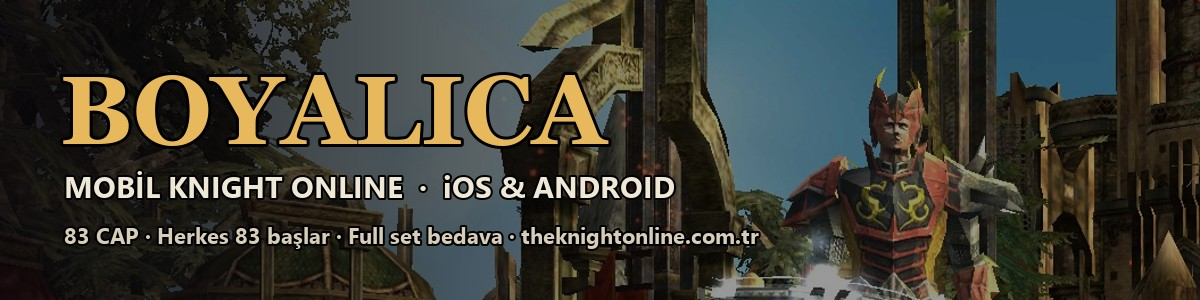
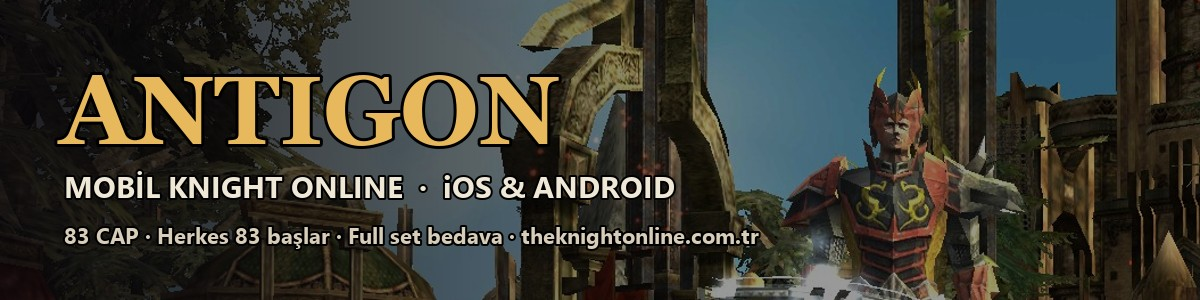
Sunucu adı BOYALICA -> ANTIGON (site, haber, tanıtım görselleri)

Changed region(s): [[0.0308, 0.24, 0.5242, 0.51]]

diff --git a/index.html b/index.html
@@ -3,8 +3,8 @@
 <head>
 <meta charset="utf-8">
 <meta name="viewport" content="width=device-width, initial-scale=1">
-<title>BOYALICA — Knight Online Mobile</title>
-<meta name="description" content="BOYALICA: Knight Online deneyimi mobilde. Karus ve El Morad savaşı, Forgotten Temple, Juraid Mountain ve daha fazlası.">
+<title>ANTIGON — Knight Online Mobile</title>
+<meta name="description" content="ANTIGON: Knight Online deneyimi mobilde. Karus ve El Morad savaşı, Forgotten Temple, Juraid Mountain ve daha fazlası.">
 <link rel="preconnect" href="https://fonts.googleapis.com">
 <link rel="preconnect" href="https://fonts.gstatic.com" crossorigin>
 <link href="https://fonts.googleapis.com/css2?family=Cinzel:wght@600;800&family=Poppins:wght@400;500;600;700&display=swap" rel="stylesheet">
@@ -14,7 +14,7 @@
 
 <header class="nav" id="nav">
   <div class="nav-in">
-    <a class="logo" href="#top"><span class="logo-main">BOYALICA</span><span class="logo-sub">KNIGHT ONLINE MOBILE</span></a>
+    <a class="logo" href="#top"><span class="logo-main">ANTIGON</span><span class="logo-sub">KNIGHT ONLINE MOBILE</span></a>
     <nav class="menu" id="menu">
       <a href="#haberler">Haberler</a>
       <a href="#siralama">Sıralama</a>
@@ -33,7 +33,7 @@
   <div class="hero-in">
     <p class="kicker">KARUS · EL MORAD</p>
     <h1>Savaş artık<br><span class="gold">cebinde.</span></h1>
-    <p class="lead">BOYALICA'da Knight Online'ın efsanevi dünyasına mobilde dön. Ulusunu seç, klanını kur, Ronark Land'de adını duyur.</p>
+    <p class="lead">ANTIGON'da Knight Online'ın efsanevi dünyasına mobilde dön. Ulusunu seç, klanını kur, Ronark Land'de adını duyur.</p>
     <div class="dl">
       <a class="store" data-link="iosUrl"><span class="ico"><svg viewBox="0 0 24 24" width="26" height="26" fill="#e9e4dc"><path d="M16.4 12.6c0-2.5 2-3.7 2.1-3.8-1.2-1.7-3-1.9-3.6-2-1.5-.2-3 .9-3.8.9-.8 0-2-.9-3.3-.9-1.7 0-3.3 1-4.1 2.5-1.8 3.1-.5 7.6 1.3 10.1.8 1.2 1.8 2.6 3.1 2.5 1.3-.1 1.7-.8 3.2-.8s1.9.8 3.2.8c1.3 0 2.2-1.2 3-2.4.9-1.4 1.3-2.7 1.3-2.8-.1 0-2.4-.9-2.4-4.1zM14 5.1c.7-.8 1.1-2 1-3.1-1 0-2.2.7-2.9 1.5-.6.7-1.2 1.9-1 3 1.1.1 2.2-.6 2.9-1.4z"/></svg></span><span><small>Hemen İndir</small><b>iOS</b></span></a>
       <a class="store" data-link="androidUrl"><span class="ico"><svg viewBox="0 0 24 24" width="26" height="26" fill="#3ddc84"><path d="M17.6 9.5l1.7-3a.4.4 0 0 0-.7-.4l-1.7 3c-1.4-.6-3-1-4.9-1s-3.5.4-4.9 1l-1.7-3a.4.4 0 0 0-.7.4l1.7 3C3.6 11 1.6 13.8 1.4 17h21.2c-.2-3.2-2.2-6-5-7.5zM7 14.4a1 1 0 1 1 0-2 1 1 0 0 1 0 2zm10 0a1 1 0 1 1 0-2 1 1 0 0 1 0 2z"/></svg></span><span><small>Hemen İndir</small><b>Android</b></span></a>
@@ -177,7 +177,7 @@
     <div class="card download">
       <div>
         <h2>Hemen İndir</h2>
-        <p class="sub">BOYALICA'yı indir ve efsanevi maceraya katıl. Ücretsiz oyna!</p>
+        <p class="sub">ANTIGON'u indir ve efsanevi maceraya katıl. Ücretsiz oyna!</p>
         <div class="dl">
           <a class="store" data-link="iosUrl"><span class="ico"><svg viewBox="0 0 24 24" width="26" height="26" fill="#e9e4dc"><path d="M16.4 12.6c0-2.5 2-3.7 2.1-3.8-1.2-1.7-3-1.9-3.6-2-1.5-.2-3 .9-3.8.9-.8 0-2-.9-3.3-.9-1.7 0-3.3 1-4.1 2.5-1.8 3.1-.5 7.6 1.3 10.1.8 1.2 1.8 2.6 3.1 2.5 1.3-.1 1.7-.8 3.2-.8s1.9.8 3.2.8c1.3 0 2.2-1.2 3-2.4.9-1.4 1.3-2.7 1.3-2.8-.1 0-2.4-.9-2.4-4.1zM14 5.1c.7-.8 1.1-2 1-3.1-1 0-2.2.7-2.9 1.5-.6.7-1.2 1.9-1 3 1.1.1 2.2-.6 2.9-1.4z"/></svg></span><span><small>Hemen İndir</small><b>iOS</b></span></a>
           <a class="store" data-link="androidUrl"><span class="ico"><svg viewBox="0 0 24 24" width="26" height="26" fill="#3ddc84"><path d="M17.6 9.5l1.7-3a.4.4 0 0 0-.7-.4l-1.7 3c-1.4-.6-3-1-4.9-1s-3.5.4-4.9 1l-1.7-3a.4.4 0 0 0-.7.4l1.7 3C3.6 11 1.6 13.8 1.4 17h21.2c-.2-3.2-2.2-6-5-7.5zM7 14.4a1 1 0 1 1 0-2 1 1 0 0 1 0 2zm10 0a1 1 0 1 1 0-2 1 1 0 0 1 0 2z"/></svg></span><span><small>Hemen İndir</small><b>Android</b></span></a>
@@ -200,7 +200,7 @@
           <div><b>🛡 Adil Oyun</b><span>Sunucu tarafı hile koruması</span></div>
         </div>
       </div>
-      <div class="badge"><span class="logo-main big">BOYALICA</span><span class="logo-sub">KNIGHT ONLINE MOBILE</span></div>
+      <div class="badge"><span class="logo-main big">ANTIGON</span><span class="logo-sub">KNIGHT ONLINE MOBILE</span></div>
     </div>
     <div class="card discord">
       <div class="dc-ico">💬</div>
@@ -212,14 +212,14 @@
 
 <footer class="footer">
   <div class="foot-in">
-    <div><span class="logo-main">BOYALICA</span><p>Knight Online Mobile özel sunucusu.</p></div>
+    <div><span class="logo-main">ANTIGON</span><p>Knight Online Mobile özel sunucusu.</p></div>
     <div class="foot-links"><a href="#haberler">Haberler</a><a href="#siralama">Sıralama</a><a href="#galeri">Galeri</a><a href="#indir">İndir</a><a data-link="instagramUrl">Instagram</a></div>
   </div>
-  <p class="copy">© <span id="year"></span> BOYALICA. Knight Online, ilgili hak sahiplerinin tescilli markasıdır.</p>
+  <p class="copy">© <span id="year"></span> ANTIGON. Knight Online, ilgili hak sahiplerinin tescilli markasıdır.</p>
 </footer>
 
 <div class="statusbar">
-  <span class="st"><i class="dot" id="st-dot"></i><b id="st-name">BOYALICA</b></span>
+  <span class="st"><i class="dot" id="st-dot"></i><b id="st-name">ANTIGON</b></span>
   <span class="st"><i class="dot red"></i>KARUS <b class="gold" id="st-karus">–</b></span>
   <span class="st"><i class="dot blue"></i>EL MORAD <b class="gold" id="st-human">–</b></span>
   <span class="st right">ÇEVRİMİÇİ <b class="gold" id="st-online">–</b></span>

diff --git a/app.js b/app.js
@@ -18,7 +18,7 @@
   });
 
   // kayan şerit
-  var words = ["WARRIOR", "ROGUE", "MAGE", "PRIEST", "KARUS", "EL MORAD", C.serverName || "BOYALICA"];
+  var words = ["WARRIOR", "ROGUE", "MAGE", "PRIEST", "KARUS", "EL MORAD", C.serverName || "ANTIGON"];
   var t = "";
   for (var k = 0; k < 4; k++) words.forEach(function (w) { t += "<span>" + esc(w) + "</span><span class='s'>✦</span>"; });
   $("ticker").innerHTML = t + t;

diff --git a/config.js b/config.js
@@ -1,7 +1,7 @@
 // BOYALICA sitesi ayarları — kod bilmeden düzenlenebilir. Değiştirip kaydetmen yeterli.
 window.BOYALICA = {
   // Sunucu adı (oyundaki server listesiyle aynı)
-  serverName: "BOYALICA",
+  serverName: "ANTIGON",
 
   // Oyun sunucusunun site adresi (sıralama, ırk yüzdesi, kayıt / giriş / profil). Sonunda / olmadan.
   // Sunucu bilgisayarında: http://localhost:8090
